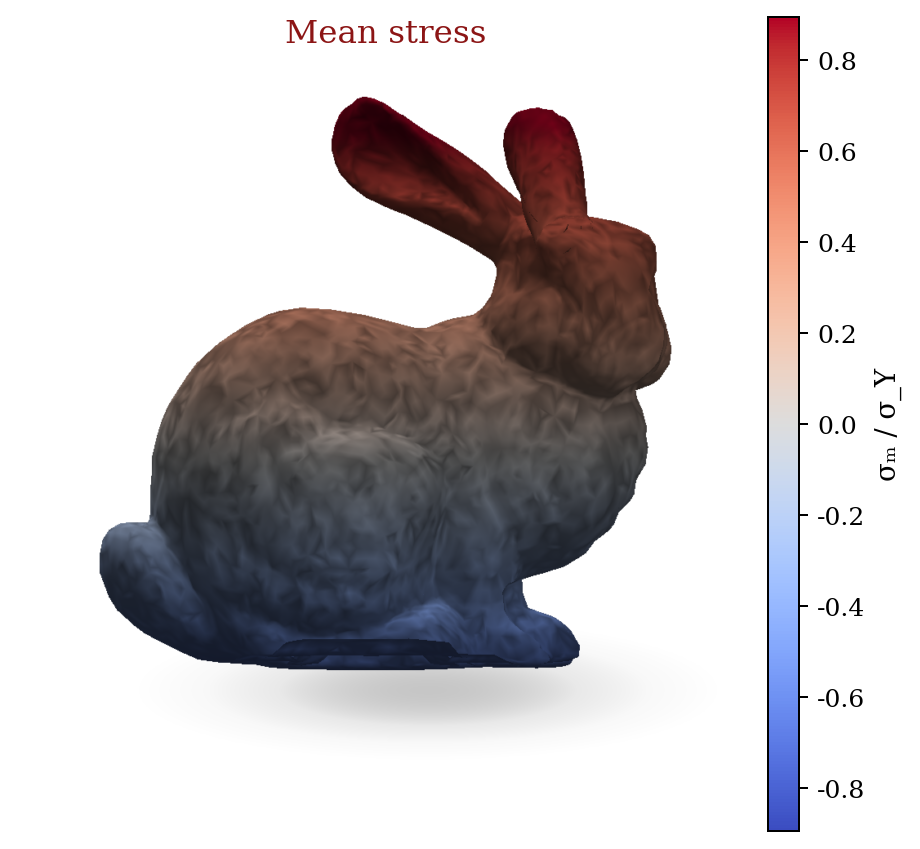
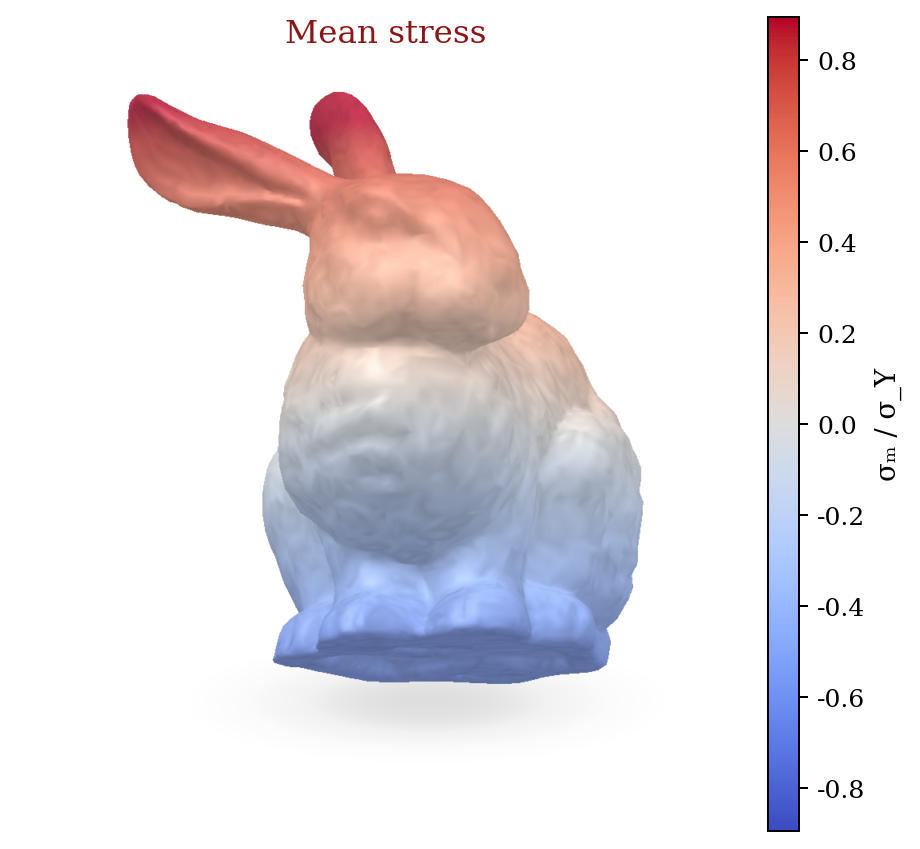
Match terracotta bunny face-out (elev=-8, azim=160) with brighter shading.

diff --git a/README.md b/README.md
@@ -11,7 +11,7 @@ problems for non-hydrostatic voids and a Mode-I slit with HELP softening.
 This repository is the theory library and the figure factory behind those plots.
 
 <p align="center">
-  <img src="docs/fig1_channels_bunny_faceout_v3.png" width="94%" alt="Illustrative sigma_m and rho_T on the Stanford bunny" />
+  <img src="docs/fig1_channels_bunny_faceout_v4.png" width="94%" alt="Illustrative sigma_m and rho_T on the Stanford bunny" />
 </p>
 
 <p align="center"><i>
